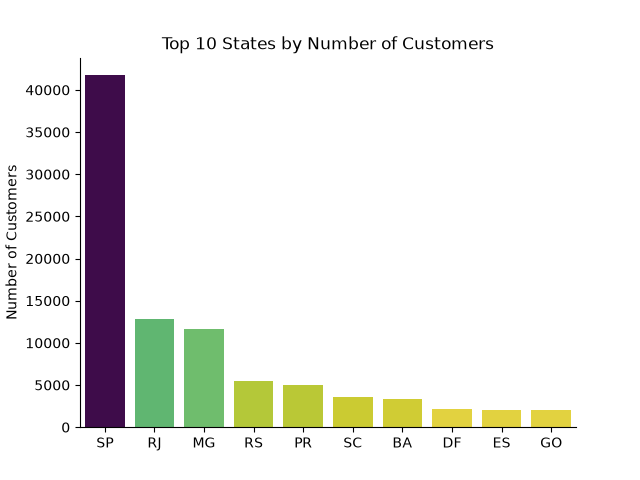
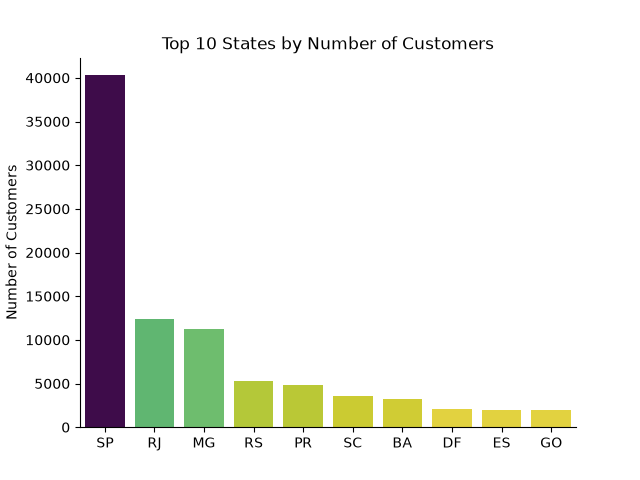
Update README and fix: change aggregation from size() to nunique()

diff --git a/README.md b/README.md
@@ -1,13 +1,17 @@
 # 🛒 Brazilian E-Commerce Sales Analysis
 
 ## Introduction
-This project analyzes the Olist Brazilian E-Commerce dataset using SQL, exploring revenue, customer behavior, delivery performance, and customer satisfaction to understand what drives sales and where the business could improve.
 
-The data comes from the [Brazilian E-Commerce Public Dataset by Olist](https://www.kaggle.com/datasets/olistbr/brazilian-ecommerce) on Kaggle, and includes orders, customers, products, sellers, payments, and reviews from 2016-2018.
-
-The queries I wrote can be found in the [`project_sql/`](./project_sql/) folder.
+This project analyzes the Olist Brazilian E-Commerce dataset in two parts. First, **SQL** (PostgreSQL) explores revenue, customer behavior, delivery performance and customer satisfaction. Then **Python** (pandas, matplotlib, seaborn) answers questions the SQL part could not: how delivery delays affect reviews, how revenue grew over time, which categories sell a lot but disappoint customers, and how late deliveries combine region and season.
+ 
+The data comes from the [Brazilian E-Commerce Public Dataset by Olist](https://www.kaggle.com/datasets/olistbr/brazilian-ecommerce) on Kaggle and includes orders, customers, products, sellers, payments and reviews from 2016-2018.
+ 
+- SQL queries: [`project_sql/`](./project_sql/)
+- Python notebooks: [`project_python/`](./project_python/)
 
 ## Questions I wanted to answer
+ 
+**SQL**
 1. Which product categories generate the most revenue?
 2. How many customers are repeat buyers vs. one-time buyers?
 3. What is the average order value by customer state?
@@ -17,18 +21,36 @@ The queries I wrote can be found in the [`project_sql/`](./project_sql/) folder.
 7. Which month has the highest rate of late deliveries?
 8. How does customer satisfaction (review score) vary by product category?
 
-## Tools I used
-- **SQL** — for querying and analyzing the data
-- **PostgreSQL** — database management system
-- **VS Code** — for writing queries and version control
-- **Git & GitHub** — for version control and sharing the project
 
-## The Analysis
+**Python**
+
+## Tools I used
+ 
+- **SQL & PostgreSQL**: querying, joins, CTEs, aggregation
+- **Python** (pandas): data cleaning, merging, aggregation
+- **Matplotlib & Seaborn**: visualizations
+- **VS Code & Git/GitHub**: development and version control
+
+## Dataset and setup
+ 
+Download the CSV files from Kaggle and place them in `csv_files/` (ignored by Git). The notebooks read them from `../csv_files/`. Create the environment with:
+ 
+```bash
+conda create -n olist python=3.11 pandas matplotlib seaborn jupyter ipykernel adjusttext
+conda activate olist
+```
+ 
+Currency is the Brazilian real (R$). "Revenue" means item price only, excluding freight.
+ 
+## The Analysis (SQL)
+
+<details>
+<summary><b>Click to expand SQL Analysis</b></summary>
 
 ### 1. Top Revenue Categories
 To identify which product categories generate the most sales, I joined order items with the products and category translation tables, summing revenue (price) and freight separately for each category.
 
-**Key finding:** Health & Beauty was the top-earning category with $1,258,681 in revenue, followed closely by Watches & Gifts ($1,205,006) and Bed, Bath & Table ($1,036,989). Interestingly, the top 3 categories span very different product types — personal care, luxury/gift items, and home goods — suggesting Olist's revenue isn't concentrated in a single niche, but spread across several strong, unrelated categories.
+> **Key finding:** Health & Beauty was the top-earning category with R$1,258,681 in revenue, followed closely by Watches & Gifts (R$1,205,006) and Bed, Bath & Table (R$1,036,989). Interestingly, the top 3 categories span very different product types — personal care, luxury/gift items, and home goods — suggesting Olist's revenue isn't concentrated in a single niche, but spread across several strong, unrelated categories.
 
 *Note: "Revenue" in this analysis refers to product price only (excluding freight/shipping charges), consistent with treating shipping as a pass-through cost rather than earned revenue.*
 
@@ -36,41 +58,93 @@ To identify which product categories generate the most sales, I joined order ite
 
 To measure customer retention, I counted the number of orders per unique customer (using `customer_unique_id`, since `customer_id` is generated per-order rather than per-person in this dataset), then classified each customer as "one-time" or "repeat" based on that count.
 
-**Key finding:** Only 2,997 customers (about 3%) made more than one purchase, while 93,099 (97%) were one-time buyers. This is a striking retention problem — Olist's revenue relies almost entirely on constantly acquiring new customers rather than repeat business, which is typically far more expensive and less sustainable than retaining existing ones.
+> **Key finding:** Only 2,997 customers (about 3%) made more than one purchase, while 93,099 (97%) were one-time buyers. This is a striking retention problem — Olist's revenue relies almost entirely on constantly acquiring new customers rather than repeat business, which is typically far more expensive and less sustainable than retaining existing ones.
 
 ### 3. Average Order Value by State
 
 To measure spending patterns by region, I first summed order item prices per order (to get each order's total value), then averaged those order totals grouped by customer state.
 
-**Key finding:** Average order value varies notably by state, ranging from $216.67 in Paraíba (PB) down to around $143 in Rio de Janeiro (RJ) — despite RJ being one of Brazil's largest, most economically developed states. This suggests that order value isn't simply driven by regional wealth or market size; smaller or less-saturated markets may see fewer but higher-value purchases.
+> **Key finding:** Average order value varies notably by state, ranging from R$216.67 in Paraíba (PB) down to around R$143 in Rio de Janeiro (RJ) — despite RJ being one of Brazil's largest, most economically developed states. This suggests that order value isn't simply driven by regional wealth or market size; smaller or less-saturated markets may see fewer but higher-value purchases.
 
 ### 4. Top States by Number of Customers
 To see where Olist's customer base is concentrated, I counted distinct customers per state directly from the customers table.
 
-**Key finding:** São Paulo (SP) dominates with 40,302 customers — over 3x more than the second-place state, Rio de Janeiro (12,384). The top 2 states alone (SP and RJ) account for a substantial share of the customer base, while the remaining top 10 states each contribute a few thousand customers, showing a heavily concentrated, São Paulo-centric market rather than an evenly distributed national presence.
+> **Key finding:** São Paulo (SP) dominates with 40,302 customers — over 3x more than the second-place state, Rio de Janeiro (12,384). The top 2 states alone (SP and RJ) account for a substantial share of the customer base, while the remaining top 10 states each contribute a few thousand customers, showing a heavily concentrated, São Paulo-centric market rather than an evenly distributed national presence.
 
 ### 5. Average Delivery Time by State
 To measure delivery speed by region, I calculated the number of days between purchase and actual delivery for each order, then averaged by customer state.
 
-**Key finding:** Delivery time varies significantly by state, from around 19 days in states like PI up to 29.3 days in RR (Roraima) — over a week and a half slower. States with the longest delivery times are generally in Brazil's more remote North region, likely reflecting greater logistical distance from Olist's main distribution hubs in the Southeast.
+> **Key finding:** Delivery time varies significantly by state, from around 19 days in states like PI up to 29.3 days in RR (Roraima) — over a week and a half slower. States with the longest delivery times are generally in Brazil's more remote North region, likely reflecting greater logistical distance from Olist's main distribution hubs in the Southeast.
 
 ### 6. Percentage of Late Deliveries by State
 
 Extending the delivery time analysis, I used a CASE statement to flag each order as "late" (delivered after the estimated delivery date) or "on time", then calculated the percentage of late orders per state.
 
-**Key finding:** Late delivery rates vary widely, from around 21.4% in Alagoas (AL) down to under 10% in states like MS and TO. Notably, this ranking doesn't fully match the "average delivery days" results from the previous query — RR had the longest average delivery time overall, but only a 12.2% late rate, suggesting Olist may already be setting longer estimated delivery windows for that state to account for the distance, rather than consistently underestimating it.
+> **Key finding:** Late delivery rates vary widely, from around 21.4% in Alagoas (AL) down to under 10% in states like MS and TO. Notably, this ranking doesn't fully match the "average delivery days" results from the previous query — RR had the longest average delivery time overall, but only a 12.2% late rate, suggesting Olist may already be setting longer estimated delivery windows for that state to account for the distance, rather than consistently underestimating it.
 
 ### 7. Late Delivery Rate by Month
 Extending the late-delivery analysis from Query 6, I flagged each order as "late" or "on time" and grouped by the month the order was purchased, instead of by state.
 
-**Key finding:** March had the highest late-delivery rate at 15.1%, followed by November at 12.4% — notably, November includes Black Friday, suggesting a spike in order volume during peak shopping season may strain Olist's delivery capacity. In contrast, June had the lowest late rate at just 1.8%, nearly 8x better than March.
+> **Key finding:** March had the highest late-delivery rate at 15.1%, followed by November at 12.4% — notably, November includes Black Friday, suggesting a spike in order volume during peak shopping season may strain Olist's delivery capacity. In contrast, June had the lowest late rate at just 1.8%, nearly 8x better than March.
 
 ### 8. Customer Satisfaction by Product Category
 To see how customer satisfaction varies by product type, I joined reviews with order items and products, calculating the average review score per category (using the English category names for readability).
 
-**Key finding:** CDs/DVDs/Musicals had the highest average rating (4.64), followed by Fashion Children's Clothes (4.50) and Books - General Interest (4.45) — suggesting media and books tend to meet expectations reliably, likely because they're low-risk, standardized purchases. At the other end, Security & Services scored lowest by far (2.50, though with only 2 reviews), while Diapers & Hygiene (3.26) and Portable Kitchen & Food Preparers (3.27) were the lowest categories with meaningful review volume — both product types where quality/functionality issues would directly and noticeably affect the buyer's experience.
+> **Key finding:** CDs/DVDs/Musicals had the highest average rating (4.64), followed by Fashion Children's Clothes (4.50) and Books - General Interest (4.45) — suggesting media and books tend to meet expectations reliably, likely because they're low-risk, standardized purchases. At the other end, Security & Services scored lowest by far (2.50, though with only 2 reviews), while Diapers & Hygiene (3.26) and Portable Kitchen & Food Preparers (3.27) were the lowest categories with meaningful review volume — both product types where quality/functionality issues would directly and noticeably affect the buyer's experience.
 
 *Note: A small number of reviews (1,598) belong to products with no assigned category (NULL), likely a data quality gap in the original product listings.*
+
+</details>
+
+## The Analysis (Python)
+ 
+<details>
+<summary><b>Click to expand Python Analysis</b></summary>
+
+### 1. Exploratory Data Analysis
+
+Before answering specific questions, I explored the Olist dataset to understand its size, quality and shape: order volume over time, review scores, payment methods, repeat customers, the biggest states, the best-selling categories and the price distribution.
+
+See notebook: [`1_EDA_intro.ipynb`](./project_python/1_EDA_intro.ipynb)
+
+#### Orders over time
+
+![Number of Orders per Month](./project_python/images/orders_per_month.png)
+
+> **Key insight:** Olist grew quickly through 2017, from about 800 orders in January to about 4,600 in October. Orders peaked in **November 2017 at about 7,500**, most likely because of Black Friday, then dropped to about 5,700 in December and settled at roughly 6,200 to 7,300 per month during 2018. The first months of 2016 and the last two months of 2018 have almost no orders, because the data collection started and ended mid-period, so those months should be left out of any trend analysis. The November peak matches the SQL finding that late deliveries rise in November.
+
+#### Customers
+
+![One-Time vs. Repeat Customers](./project_python/images/one_time_vs_repeat_customers.png)
+
+> **Key insight:** Only **3.1%** of customers ordered more than once, while **96.9%** bought a single time. This confirms the SQL result (2,997 repeat vs. 93,099 one-time customers) and shows that Olist depends almost entirely on acquiring new customers.
+
+![Top 10 States by Number of Customers](./project_python/images/top_10_states.png)
+
+> **Key insight:** The customer base is heavily concentrated: **São Paulo (SP)** has more than three times as many customers as Rio de Janeiro (RJ), and SP, RJ and Minas Gerais (MG) together account for about two thirds of all customers. The remaining states in the top 10 (RS, PR, SC, BA, DF, ES, GO) each have only a few thousand.
+
+#### Reviews and payments
+
+![Review Scores](./project_python/images/review_scores.png)
+
+> **Key insight:** Customers are mostly satisfied: about **58%** of reviews are 5 stars and about 77% are 4 or 5 stars. The distribution is not smooth, though. 1-star reviews (about 11%) are more common than 2-star or 3-star reviews, which means that unhappy customers tend to be very unhappy. This is what the later notebook on late deliveries investigates.
+
+![Number of Payments per Payment Type](./project_python/images/payments_per_payment_type.png)
+
+> **Key insight:** **Credit card** is by far the most used payment method (roughly three quarters of payments), followed by **boleto**, a Brazilian bank-slip payment (about 19%). Vouchers and debit cards together make up only a small share, and `not_defined` is practically empty.
+
+#### Products
+
+![Top 10 Product Categories by Items Sold](./project_python/images/top_categories.png)
+
+> **Key insight:** `bed_bath_table` sells the most items (about 11,100), followed by `health_beauty` (about 9,700) and `sports_leisure` (about 8,600). The ranking by items differs from the SQL ranking by revenue: `watches_gifts` is only 7th by items sold (about 6,000) but 2nd by revenue, and `bed_bath_table` is first by items but only 3rd by revenue. This suggests that watches and gifts have a much higher price per item, while bed and bath products sell in volume at lower prices.
+
+![Product Price Distribution](./project_python/images/product_price_distribution.png)
+
+> **Key insight:** Prices are strongly right-skewed. Roughly three quarters of the items cost less than about R$135, and a long tail of expensive items reaches R$1,400 and above. Because of this tail, the median describes a typical price better than the mean.
+
+</details>
+
 
 ## What I Learned
 Working through this project deepened my SQL skills in several ways beyond the fundamentals from my first project:
@@ -80,13 +154,3 @@ Working through this project deepened my SQL skills in several ways beyond the f
 - **The `SUM(CASE...)` counting pattern:** Using `SUM()` on 0/1 flags as a way to count how many rows meet a condition within each group, alongside `COUNT(*)` for the total, to calculate percentages.
 - **Working with real-world data quality issues:** Encountering and resolving foreign key violations caused by missing category translations, and NULL categories in the review data — realistic problems that don't show up in cleaner tutorial datasets.
 - **Choosing the right grain for `customer_id`:** Learning to distinguish between `customer_id` (unique per order) and `customer_unique_id` (unique per person) — a dataset-specific quirk that would have silently produced wrong retention numbers if missed.
-
-## Conclusions
-This analysis paints a picture of a marketplace with real growth opportunities alongside operational challenges:
-
-- **Revenue is healthy and diversified** across categories (Health & Beauty, Watches & Gifts, Home goods), but **customer retention is a major weak point** — with 97% of customers never returning, Olist's growth depends almost entirely on constant new customer acquisition rather than repeat business.
-- **Geography plays a large role in both reach and performance:** São Paulo dominates the customer base, while delivery times and late-delivery rates vary significantly by region, with more remote states facing both slower and somewhat less predictable delivery.
-- **Seasonal strain is visible in the data:** late deliveries spike in November, aligning with Black Friday, suggesting delivery capacity doesn't fully scale with peak demand.
-- **Customer satisfaction is generally solid but uneven across categories** — low-risk, standardized products (books, media) score highest, while categories more prone to quality or fit issues score lower, independent of delivery performance.
-
-Overall, the biggest opportunity area this analysis points to is **customer retention** — improving it even modestly could meaningfully reduce Olist's reliance on constant new customer acquisition, which is typically far more costly than retaining existing customers.
